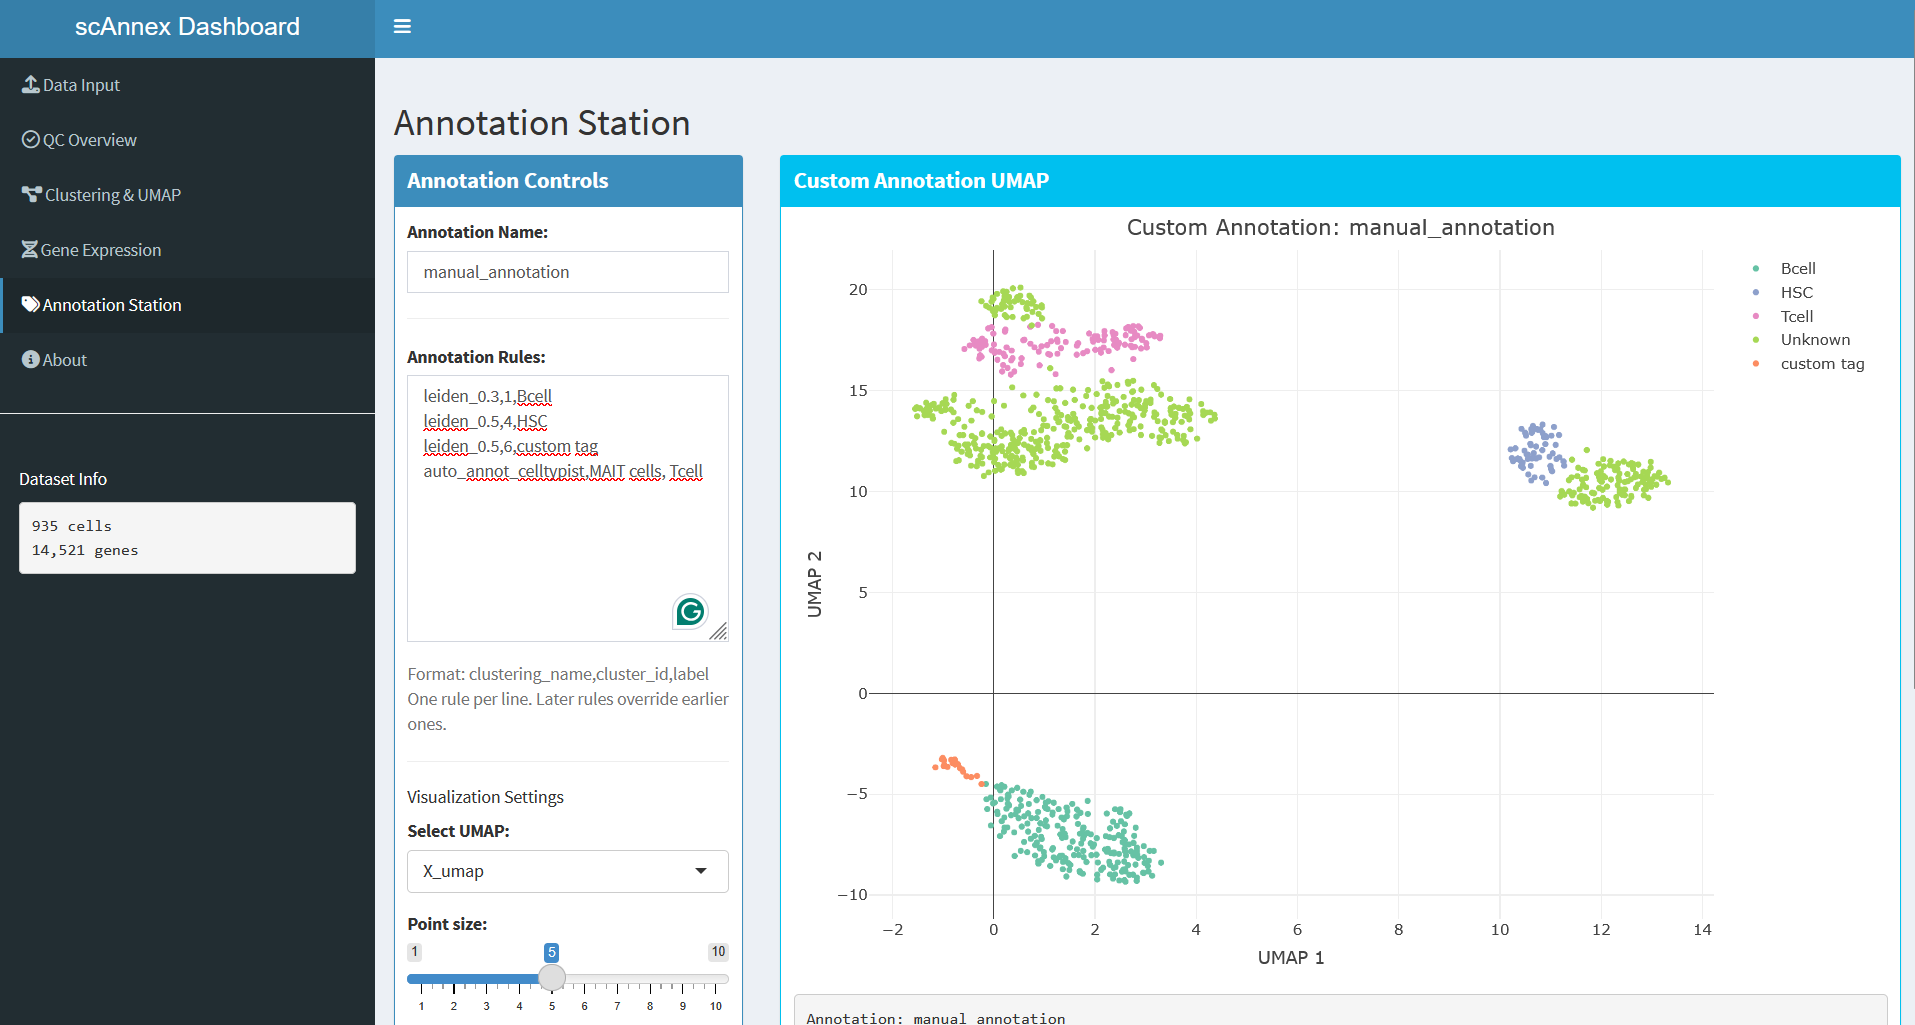
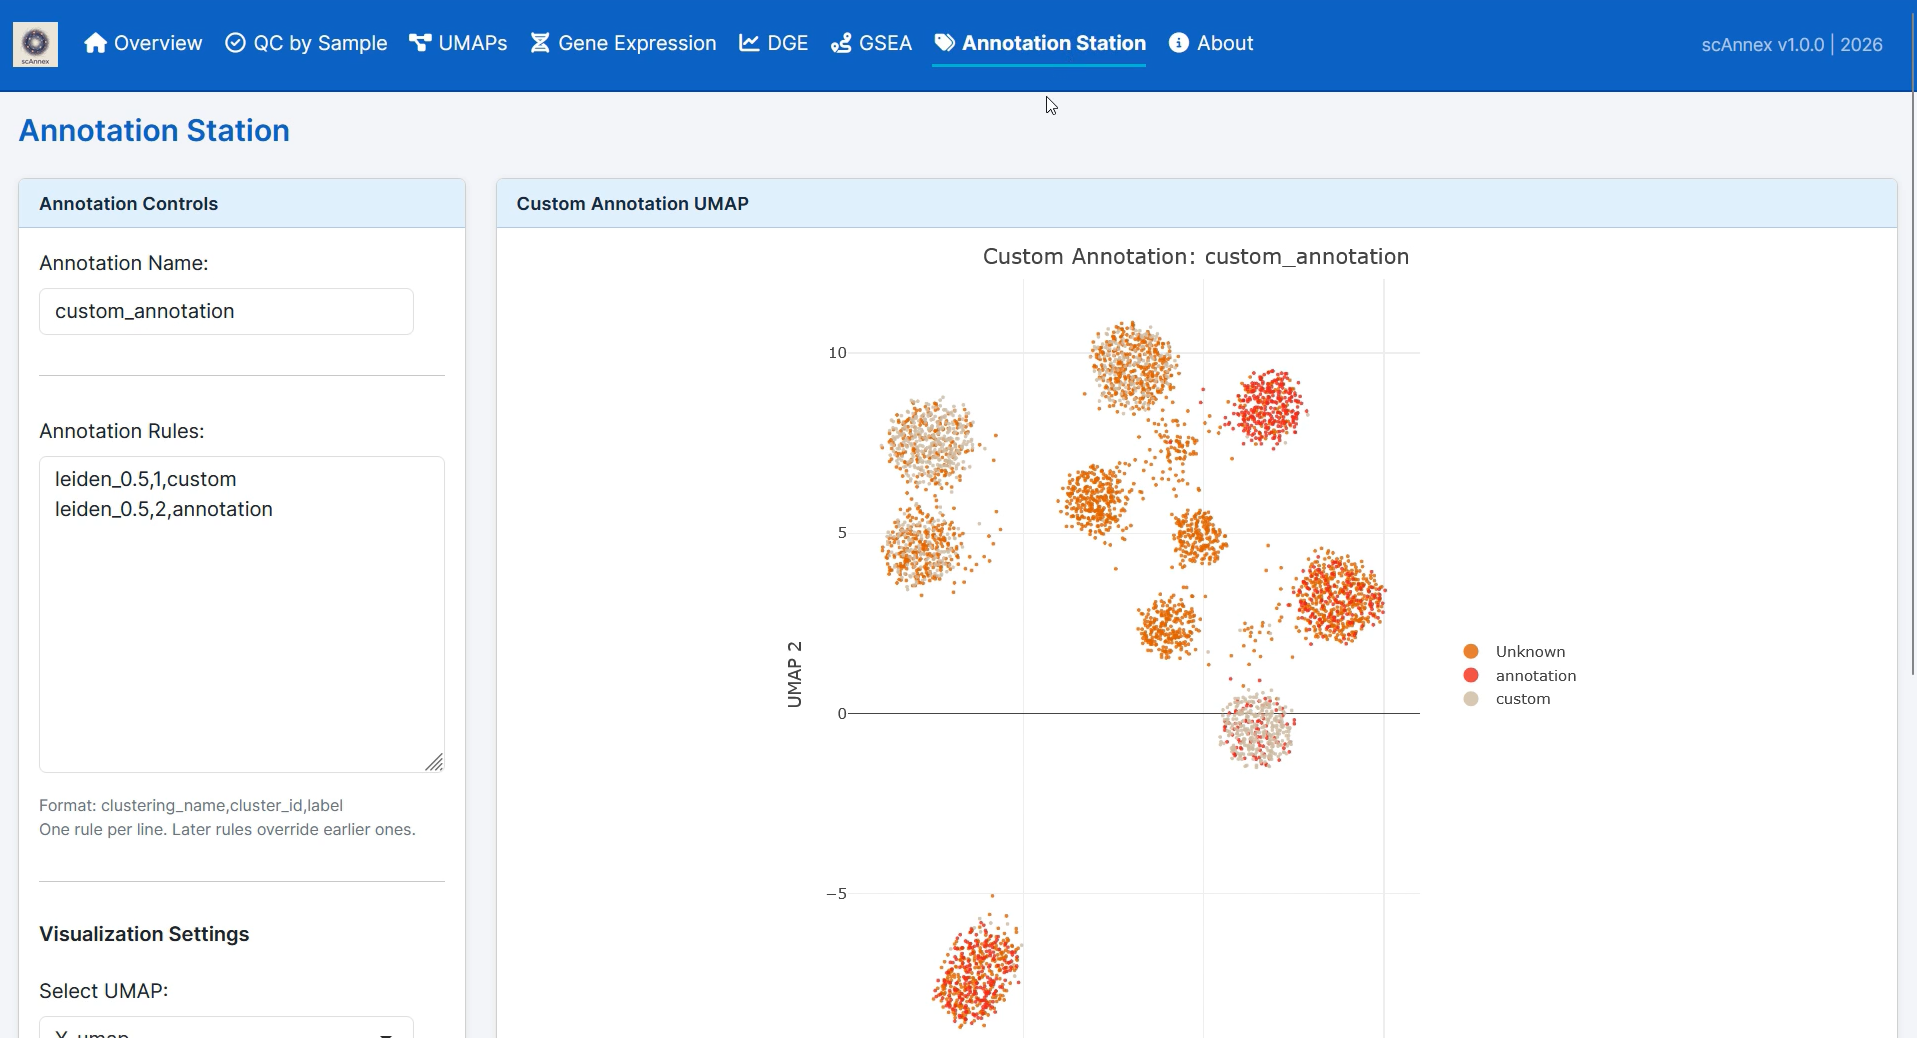
Add: video demos

diff --git a/index.html b/index.html
@@ -477,13 +477,13 @@
     }
     
     .tags span {
-      background: rgba(240,196,107,0.15);
-      color: #f0c46b;
+      background: rgba(255,255,255,0.05);
+      color: #aaa;
       padding: 0.4rem 0.8rem;
       border-radius: 8px;
       font-size: 0.8rem;
       font-weight: 500;
-      border: 1px solid rgba(240, 196, 107, 0.3);
+      border: 1px solid rgba(255,255,255,0.1);
     }
     
     .project-links {
@@ -498,20 +498,20 @@
       align-items: center;
       gap: 0.4rem;
       padding: 0.5rem 1rem;
-      background: rgba(255,255,255,0.05);
-      color: #ccc;
+      background: rgba(240,196,107,0.15);
+      color: #f0c46b;
       text-decoration: none;
       border-radius: 8px;
       font-size: 0.85rem;
       font-weight: 500;
       transition: all 0.3s;
-      border: 1px solid rgba(255,255,255,0.1);
+      border: 1px solid rgba(240,196,107,0.35);
     }
     
     .project-link:hover {
-      background: rgba(255,255,255,0.1);
-      border-color: rgba(255,255,255,0.2);
-      color: #f0c46b;
+      background: rgba(240,196,107,0.28);
+      border-color: rgba(240,196,107,0.6);
+      color: #f5d080;
       transform: translateY(-2px);
     }
     
@@ -1276,7 +1276,7 @@
       <ul>
         <li><a href="#home" class="active">Home</a></li>
         <li><a href="#experience">Experience</a></li>
-        <li><a href="#projects">Work</a></li>
+        <li><a href="#projects">Projects</a></li>
         <li><a href="#about">About</a></li>
         <li><a href="#contact">Contact</a></li>
       </ul>
@@ -1426,7 +1426,7 @@
 
   <!-- Projects -->
   <section id="projects" class="section projects">
-    <h2 class="section-title">Selected Work</h2>
+    <h2 class="section-title">Projects</h2>
     <div class="project-grid">
       <!-- Row 1: RR771 · scAnnex · bulkAnnex -->
       <div class="project-card" onclick="openModal('rr771')">
@@ -1455,7 +1455,7 @@
           <div class="tags">
             <span>Single-cell</span>
             <span>Workflow</span>
-            <span>Shiny</span>
+            <span>Dashboard</span>
           </div>
           <p>Automated single-cell workflow that takes raw counts to interpretable results through reproducible analysis and a simple interactive dashboard.</p>
           <div class="project-links">
@@ -1478,7 +1478,7 @@
           <div class="tags">
             <span>Bulk RNA-seq</span>
             <span>Workflow</span>
-            <span>Reporting</span>
+            <span>Dashboard</span>
           </div>
           <p>Reproducible bulk RNA-seq workflow for differential expression, pathway analysis, and self-contained reporting.</p>
           <div class="project-links">
@@ -1500,9 +1500,9 @@
         <div class="project-content">
           <h3>XPAND</h3>
           <div class="tags">
-            <span>Single-cell multiomics</span>
+            <span> SC multiomics</span>
             <span>Gene therapy</span>
-            <span>Translational</span>
+            <span>GRN</span>
           </div>
           <p>Integrated single-cell multiomics analysis for HSC gene therapy, focused on marker discovery and translational interpretation.</p>
           <div class="project-links">
@@ -1570,9 +1570,9 @@
         <div class="project-content">
           <h3>Endocarditis</h3>
           <div class="tags">
-            <span>Dual RNA-seq</span>
+            <span>Dual RNA</span>
             <span>Host-pathogen</span>
-            <span>Translational</span>
+            <span>Cardiology</span>
           </div>
           <p>Dual RNA-seq study of infective endocarditis, profiling host and pathogen responses to understand disease biology from both sides.</p>
           <div class="project-links">
@@ -1881,7 +1881,7 @@
     const projectData = {
       scannex: {
         title: "scAnnex | Automated Single-Cell Workflow",
-        tags: ["Single-cell", "Workflow", "Shiny"],
+        tags: ["Single-cell", "Workflow", "Dasboard"],
         
         // Challenge → Approach → Impact
         challenge: `<strong>Challenge:</strong> Single-cell analysis is powerful, but for many labs it is still too manual. Too much time goes into preprocessing, QC choices, and repeated scripting, which slows delivery and makes results harder to reproduce.`,
@@ -1928,6 +1928,8 @@
           }
         ],
         
+        videoSrc: 'images/video/scAnnex_video_demo.mp4',
+
         links: [
           { url: "https://github.com/damouzo/scAnnex", text: "GitHub Repository", icon: "github", primary: true }
         ]
@@ -2246,9 +2248,22 @@
           "Backward compatible: omitting norm_group replicates previous single-model behaviour with identical output structure"
         ],
 
+        figures: [
+          {
+            src: "images/imgProy/pop_ups/bulkAnnex_QCoverview.png",
+            caption: "Dashboard Overview: Interactive landing tab showing the full experiment at a glance — sample metadata, count distributions, size factors, and PCA/clustering plots. Provides a fast quality check before diving into differential expression results."
+          },
+          {
+            src: "images/imgProy/pop_ups/bulkAnnex_GSEA.png",
+            caption: "GSEA Explorer: Multi-database pathway enrichment tab covering GO (BP/MF/CC), KEGG, and Reactome. Displays ridgeplots, dot plots, and PathView pathway maps for each contrast, enabling rapid biological interpretation across databases in a single view."
+          }
+        ],
+
         links: [
           { url: "https://github.com/damouzo/bulkAnnex", text: "GitHub Repository", icon: "github", primary: true }
-        ]
+        ],
+
+        videoSrc: 'images/video/bulkAnnex_video_demo.mp4'
       },
       biohackathon26: {
         title: "ELN Intelligence Layer | BioHackathon 2026",
@@ -2291,9 +2306,10 @@
           }
         ],
 
+        videoSrc: 'images/video/Biohackathon_video_demo.mp4',
+
         links: [
-          { url: "https://github.com/damouzo/biohackathon26", text: "GitHub Repository", icon: "github", primary: true },
-          { url: "https://github.com/damouzo/biohackathon26/releases/tag/v1.0", text: "Demo Video", icon: "video" }
+          { url: "https://github.com/damouzo/biohackathon26", text: "GitHub Repository", icon: "github", primary: true }
         ]
       }
     };
@@ -2403,6 +2419,12 @@
                 ${link.text}
               </a>
             `).join('')}
+            ${data.videoSrc ? `
+              <button class="modal-link" style="cursor:pointer; border:none;" onclick="openVideoModal('${data.videoSrc}')">
+                ${getIconSVG('video')}
+                Video Demo
+              </button>
+            ` : ''}
           </div>
         </div>
       `;
